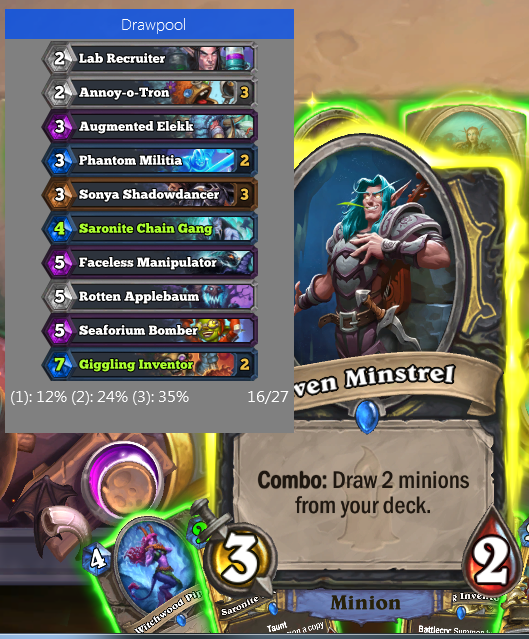
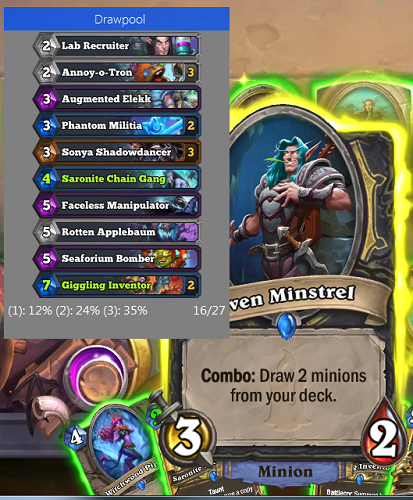
Fixed Draw % order on label

diff --git a/DrawPool/Properties/AssemblyInfo.cs b/DrawPool/Properties/AssemblyInfo.cs
@@ -6,9 +6,9 @@ using System.Runtime.InteropServices;
 // set of attributes. Change these attribute values to modify the information
 // associated with an assembly.
 [assembly: AssemblyTitle("DrawPool")]
-[assembly: AssemblyDescription("")]
+[assembly: AssemblyDescription("The DrawPool HDT Plug-In")]
 [assembly: AssemblyConfiguration("")]
-[assembly: AssemblyCompany("")]
+[assembly: AssemblyCompany("The High Falootin Technology, Corporation")]
 [assembly: AssemblyProduct("DrawPool")]
 [assembly: AssemblyCopyright("Copyright ©  2018")]
 [assembly: AssemblyTrademark("")]

diff --git a/ReadMe.md b/ReadMe.md
@@ -14,8 +14,10 @@ I hope to add in the mechanics for [Recruit](https://hearthstone.gamepedia.com/R
 ![Display Example](https://raw.githubusercontent.com/VeXHarbinger/DrawPool/master/images/MinstrelDisplaySample.png)
 
 * In the lower left hand corner you see the draw probability for a card that you have one or two copies of.
+  
+  * This is indicated by the (Card Count):draw probability
 
-* If you have one (or more) copies of a card, it will also display the card draw percentage for the card you have the most copies of.
+* It will also display the card draw percentage for the card you have the most copies of, if you have more then two.
 
 * In the lower right hand corner, it shows the total number of minions in the draw pool and the total deck card count.
 
@@ -23,12 +25,8 @@ I hope to add in the mechanics for [Recruit](https://hearthstone.gamepedia.com/R
 
 ![Display Example](https://raw.githubusercontent.com/VeXHarbinger/DrawPool/master/images/PiperDisplaySample.png)
 
-* In the lower left hand corner you'll see the draw probability for the lowest cost minion card for your lowest cost minion card, or the minion with this mana cost which you have the fewest copies of.
-
-* If you have multiple minion types for this mana cost, it will also display the card draw probability for the card you have the second most copies of.
-
-  * If you happen to have three or more copies of a minion at this mana cost, it will also display a third statistic indicating the minion's copy count and it's draw probability for the minion type you have the most copies of.
-
+* In the lower left hand corner you see the draw probability for a card that you have one or more copies of.
+  * This is indicated by the (Card Count):draw probability 
 * In the lower right hand corner, it shows the total number of minions in the draw pool and the total deck card count.
 
 
